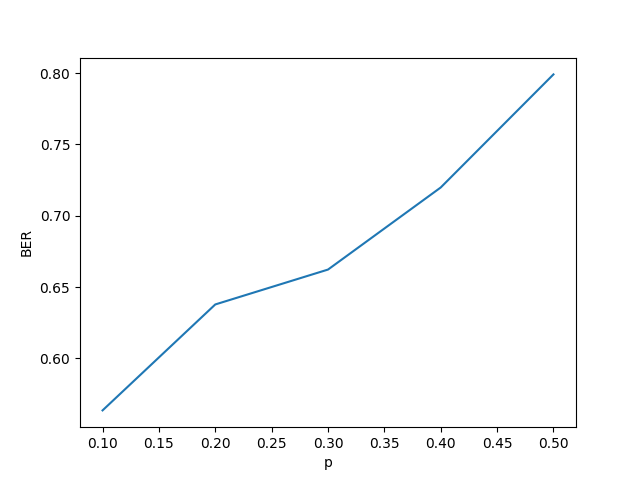
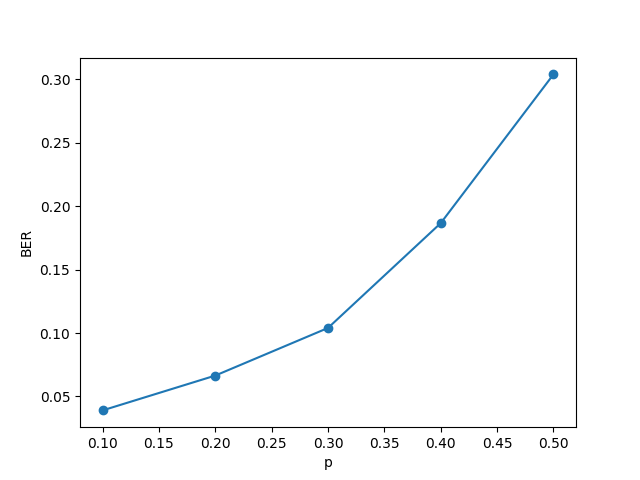
Fix a bug in the decode files

diff --git a/LDPC/BEC/decode.py b/LDPC/BEC/decode.py
@@ -18,7 +18,7 @@ n, k = G.shape[1], G.shape[0]
 img = np.array(img).flatten() #vectorising the matrix
 size = len(img)
 
-row = [[] for _ in range(len(H))] # for storing indices of non-zero entries (corresponding to a particular row or column) in H 
+row = [[] for _ in range(len(H))] # Analogous to an adjacency list reperesentation of a graph. For storing indices of non-zero entries (corresponding to a particular row or column) in H. 
 col = [[] for _ in range(n)]
 
 for i in range(len(H)):
@@ -60,17 +60,11 @@ def belief_prop(bits):
         r = bits[n*i : n*(i+1)]
 
         for j in range(len(L)):
-            L[j] = np.dot(H[j], r)
+            L[j] = H[j]*r
 
         for _ in range(10): # no. of iterations
-            # column operations
-            for j in range(n):
-                if count_e(L[:, j]) != wc:
-                    L[:, j] = assign(L[:, j], j)
-                    r[j] = L[0][j]
-
             # row operations
-            for j in range(k):
+            for j in range(len(L)):
                 index = 0
                 cnt = 0
                 for l in range(n):
@@ -78,18 +72,27 @@ def belief_prop(bits):
                         index = l
                         cnt += 1
                 
-                if cnt == 1:
+                if cnt == 1: # if exactly one variable in a row is erased
                     L[j][index] = xor(L[j], index)
+
+            # column operations
+            for j in range(n):
+                if count_e(L[:, j]) != wc:
+                    L[:, j] = assign(L[:, j], j)
+                    for l in col[j]:
+                        if L[l][j] != -1:
+                            r[j] = L[l][j]
+                            break            
 
             res[k*i : k*(i+1)] = r[0:k]
 
     return res
 
 
-P = [0.1, 0.2, 0.3, 0.4, 0.5] # probability of erasure
+p = [0.1, 0.2, 0.3, 0.4, 0.5] # probability of erasure
 BER = []
 
-for i in P:
+for i in p:
     print("For p =", i)
     r = commpy.channels.bec(code, i) # received bits. Here, '-1' is the erasure symbol.
     decod = belief_prop(r)
@@ -98,7 +101,7 @@ for i in P:
     BER.append(error/size)
     print("Bit Error rate:", error/size, "\n")
 
-plt.plot(P, BER)
+plt.plot(p, BER, marker = 'o')
 plt.xlabel('p')
 plt.ylabel('BER')
 plt.savefig('../figs/BEC.png')

diff --git a/LDPC/BSC/decode.py b/LDPC/BSC/decode.py
@@ -15,7 +15,7 @@ n, k = G.shape[1], G.shape[0]
 img = np.array(img).flatten() #vectorising the matrix
 size = len(img)
 
-row = [[] for _ in range(len(H))] # for storing indices of non-zero entries (corresponding to a particular row or column) in H 
+row = [[] for _ in range(len(H))] # Analogous to an adjacency list reperesentation of a graph. For storing indices of non-zero entries (corresponding to a particular row or column) in H 
 col = [[] for _ in range(n)]
 
 for i in range(len(H)):
@@ -63,7 +63,7 @@ def decode(bits):
 		c = r
 
 		for j in range(len(L)):
-			L[j] = np.dot(H[j], r)
+			L[j] = H[j]*r
 
 		for _ in range(10): # no. of iterations
 			for j in range(len(H)):
@@ -96,7 +96,7 @@ for i in p:
 	BER.append(error/size)
 	print("Bit Error rate:", error/size, "\n")
 
-plt.plot(p, BER)
+plt.plot(p, BER, marker = 'o')
 plt.xlabel("p")
 plt.ylabel("BER")
 plt.savefig("../figs/BSC.png")

diff --git a/LDPC/AWGN/decode.py b/LDPC/AWGN/decode.py
@@ -109,7 +109,7 @@ def belief_prop(demod): # decoding using belief-propagation/sum-product/message-
     for i in range(int(len(demod)/n)):
         r = demod[n*i : n*(i+1)]
         for j in range(len(L)):
-                L[j] = np.dot(H[j], r) # equivalent to a Tanner graph construction
+            L[j] = H[j]*r # equivalent to a Tanner graph construction
 
         prevDecision = np.zeros(n) # to store the previously obtained decision
         currDecision = np.zeros(n) # to store the current decision
@@ -156,7 +156,7 @@ def gallager(bits):
 	    c = r
 
 	    for j in range(len(L)):
-		    L[j] = np.dot(H[j], r)
+		    L[j] = H[j]*r
 
 	    for _ in range(10): # no. of iterations
 		    for j in range(len(H)):

diff --git a/LDPC/AWGN/tempCodeRunnerFile.py b/LDPC/AWGN/tempCodeRunnerFile.py
@@ -1,2 +1,1 @@
-img = np.array(img).flatten() #vectorising the matrix
-size = len(img)
+L[j] = H[j]*r
